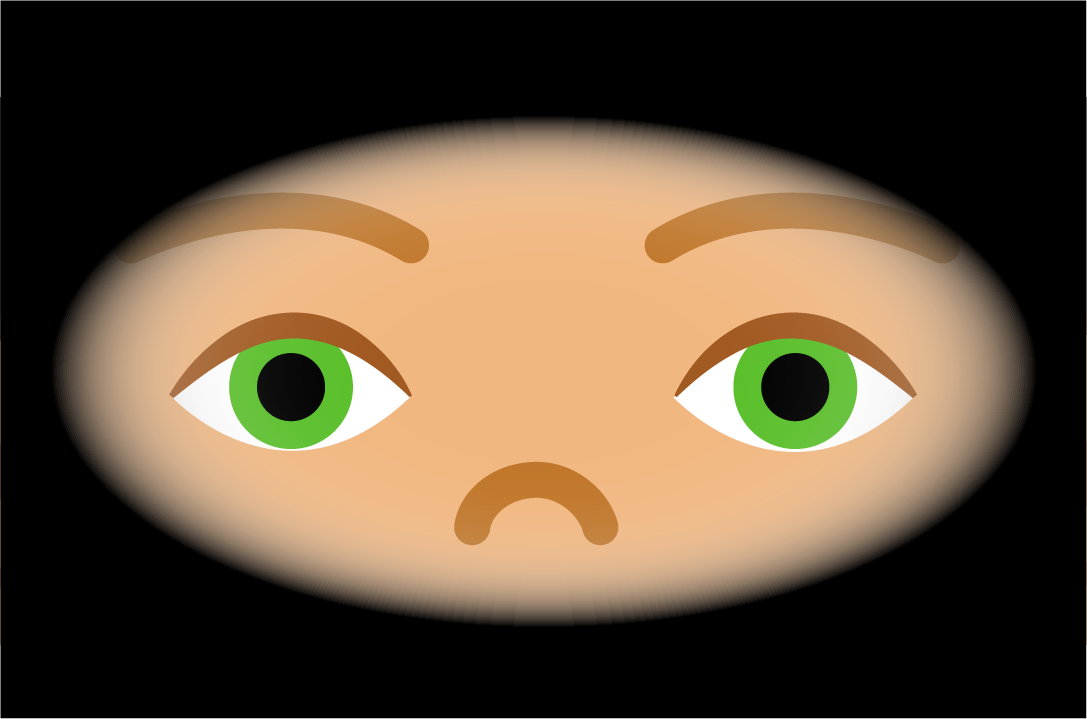
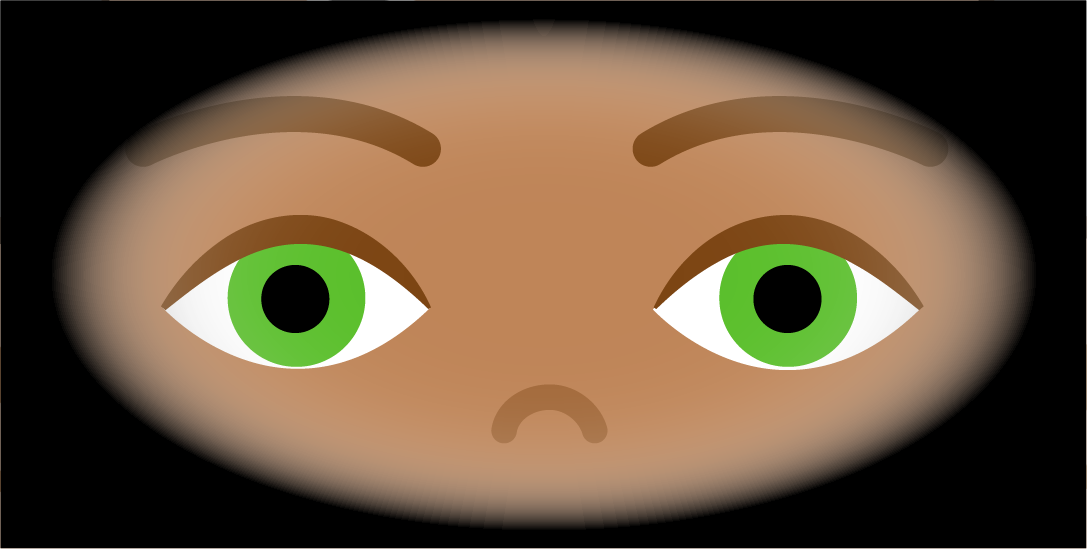
ACD03

diff --git a/public/html/glaucomascrollImages.html b/public/html/glaucomascrollImages.html
@@ -1109,11 +1109,11 @@
 
       #glaucomaACDInteractive #acdCrescentRight {
         position: absolute;
-        left: 236px;
+        left: 235px;
         top: calc(218px + var(--acd-stage-shift-y));
         transform: translate(-50%, -50%) scaleX(-1);
-        width: 50px;
-        height: 32px;
+        width: 56px;
+        height: 35px;
         background: rgba(0, 0, 0, 0.62);
         border-radius: 999px;
         opacity: 0;
